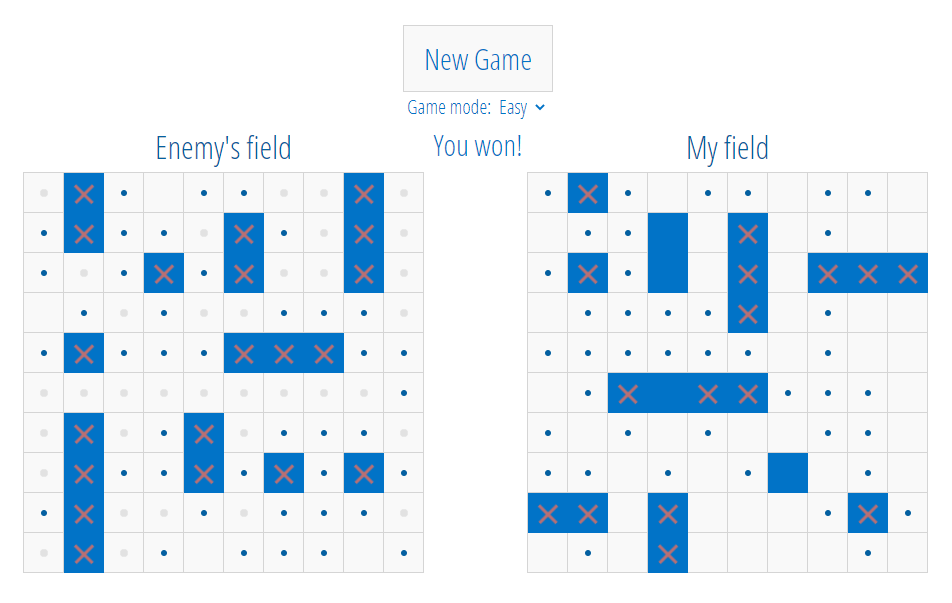
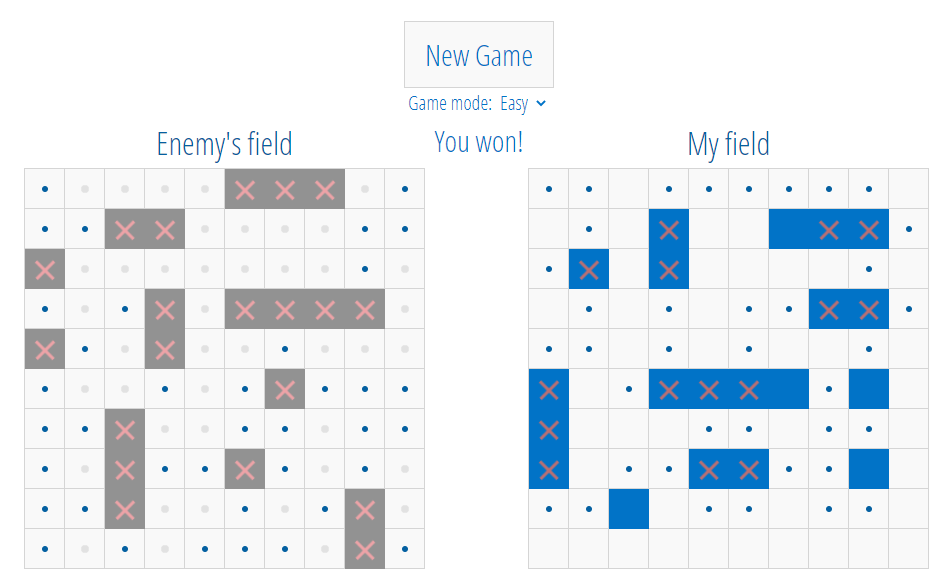
0.2.1
- Game modes added
- Visual design changes

Changed region(s): [[0.0, 0.2158, 0.4623, 0.9863], [0.5547, 0.2158, 0.9862, 0.9555], [0.4315, 0.0308, 0.5855, 0.2774]]

diff --git a/css/style.css b/css/style.css
@@ -141,9 +141,14 @@
     background: #c0c0c0;
 }
 
-.field__sector-ship {
+.field__sector-ship-me {
     background: #0173c7;
     border: 1px solid #0173c7;
+}
+
+.field__sector-ship-enemy {
+    background: #929292;
+    border: 1px solid #929292;
 }
 
 .field__sector-miss {
@@ -168,16 +173,29 @@
     background-position: top right;
 } */
 
-.field__sector-hit {
+.field__sector-hit-me {
     border: 1px solid #0173c7;
-    background: #0173c7 url(../images/hit.png) no-repeat;
+    background: #0173c7 url(../images/hit-me.png) no-repeat;
     background-position: top right;
-    animation: .5s linear 0s alternate hit;   
+    animation: .5s linear 0s alternate hit-me;   
 }
 
-@keyframes hit { 
+.field__sector-hit-enemy {
+    /* border: 1px solid #007f74; */
+    border: 1px solid #929292;
+    background: #929292 url(../images/hit-enemy.png) no-repeat;
+    background-position: top right;
+    animation: .5s linear 0s alternate hit-enemy;
+}
+
+@keyframes hit-me { 
     from { background-color: #B96F73; border: 1px solid #B96F73; } 
     to { background-color: #0173c7; border: 1px solid #0173c7; }
+}
+
+@keyframes hit-enemy { 
+    from { background-color: #B96F73; border: 1px solid #B96F73; } 
+    to { background-color: #929292; border: 1px solid #929292; }
 }
 
 /* .field__sector-hit:hover {

diff --git a/js/main.js b/js/main.js
@@ -241,12 +241,16 @@ function markSector (x, y, owner, status, open, noClass) {
 
     sector.classList.remove('field__sector-miss')
     sector.classList.remove('field__sector-next')
-    sector.classList.remove('field__sector-ship')
-    sector.classList.remove('field__sector-hit')
+    sector.classList.remove(`field__sector-ship-me`)
+    sector.classList.remove(`field__sector-ship-enemy`)
+    sector.classList.remove('field__sector-hit-me')
+    sector.classList.remove('field__sector-hit-enemy')
 
     if (noClass) return
 
-    sector.classList.add(`field__sector-${statuses[status]}`)
+    let postfix = status == 1 || status == 2 ? `-${owner}` : ''
+
+    sector.classList.add(`field__sector-${statuses[status]}${postfix}`)
 }
 
 /**
@@ -565,7 +569,7 @@ function openField(x, y) {
     let node_sector = document.getElementById(`enemy-${y}-${x}`)
 
     animation = setTimeout(() => {
-        if (sector.status == 1) node_sector.classList.add('field__sector-ship')
+        if (sector.status == 1) node_sector.classList.add('field__sector-ship-enemy')
         node_sector.classList.remove('field__sector-enemy')
 
         y++
